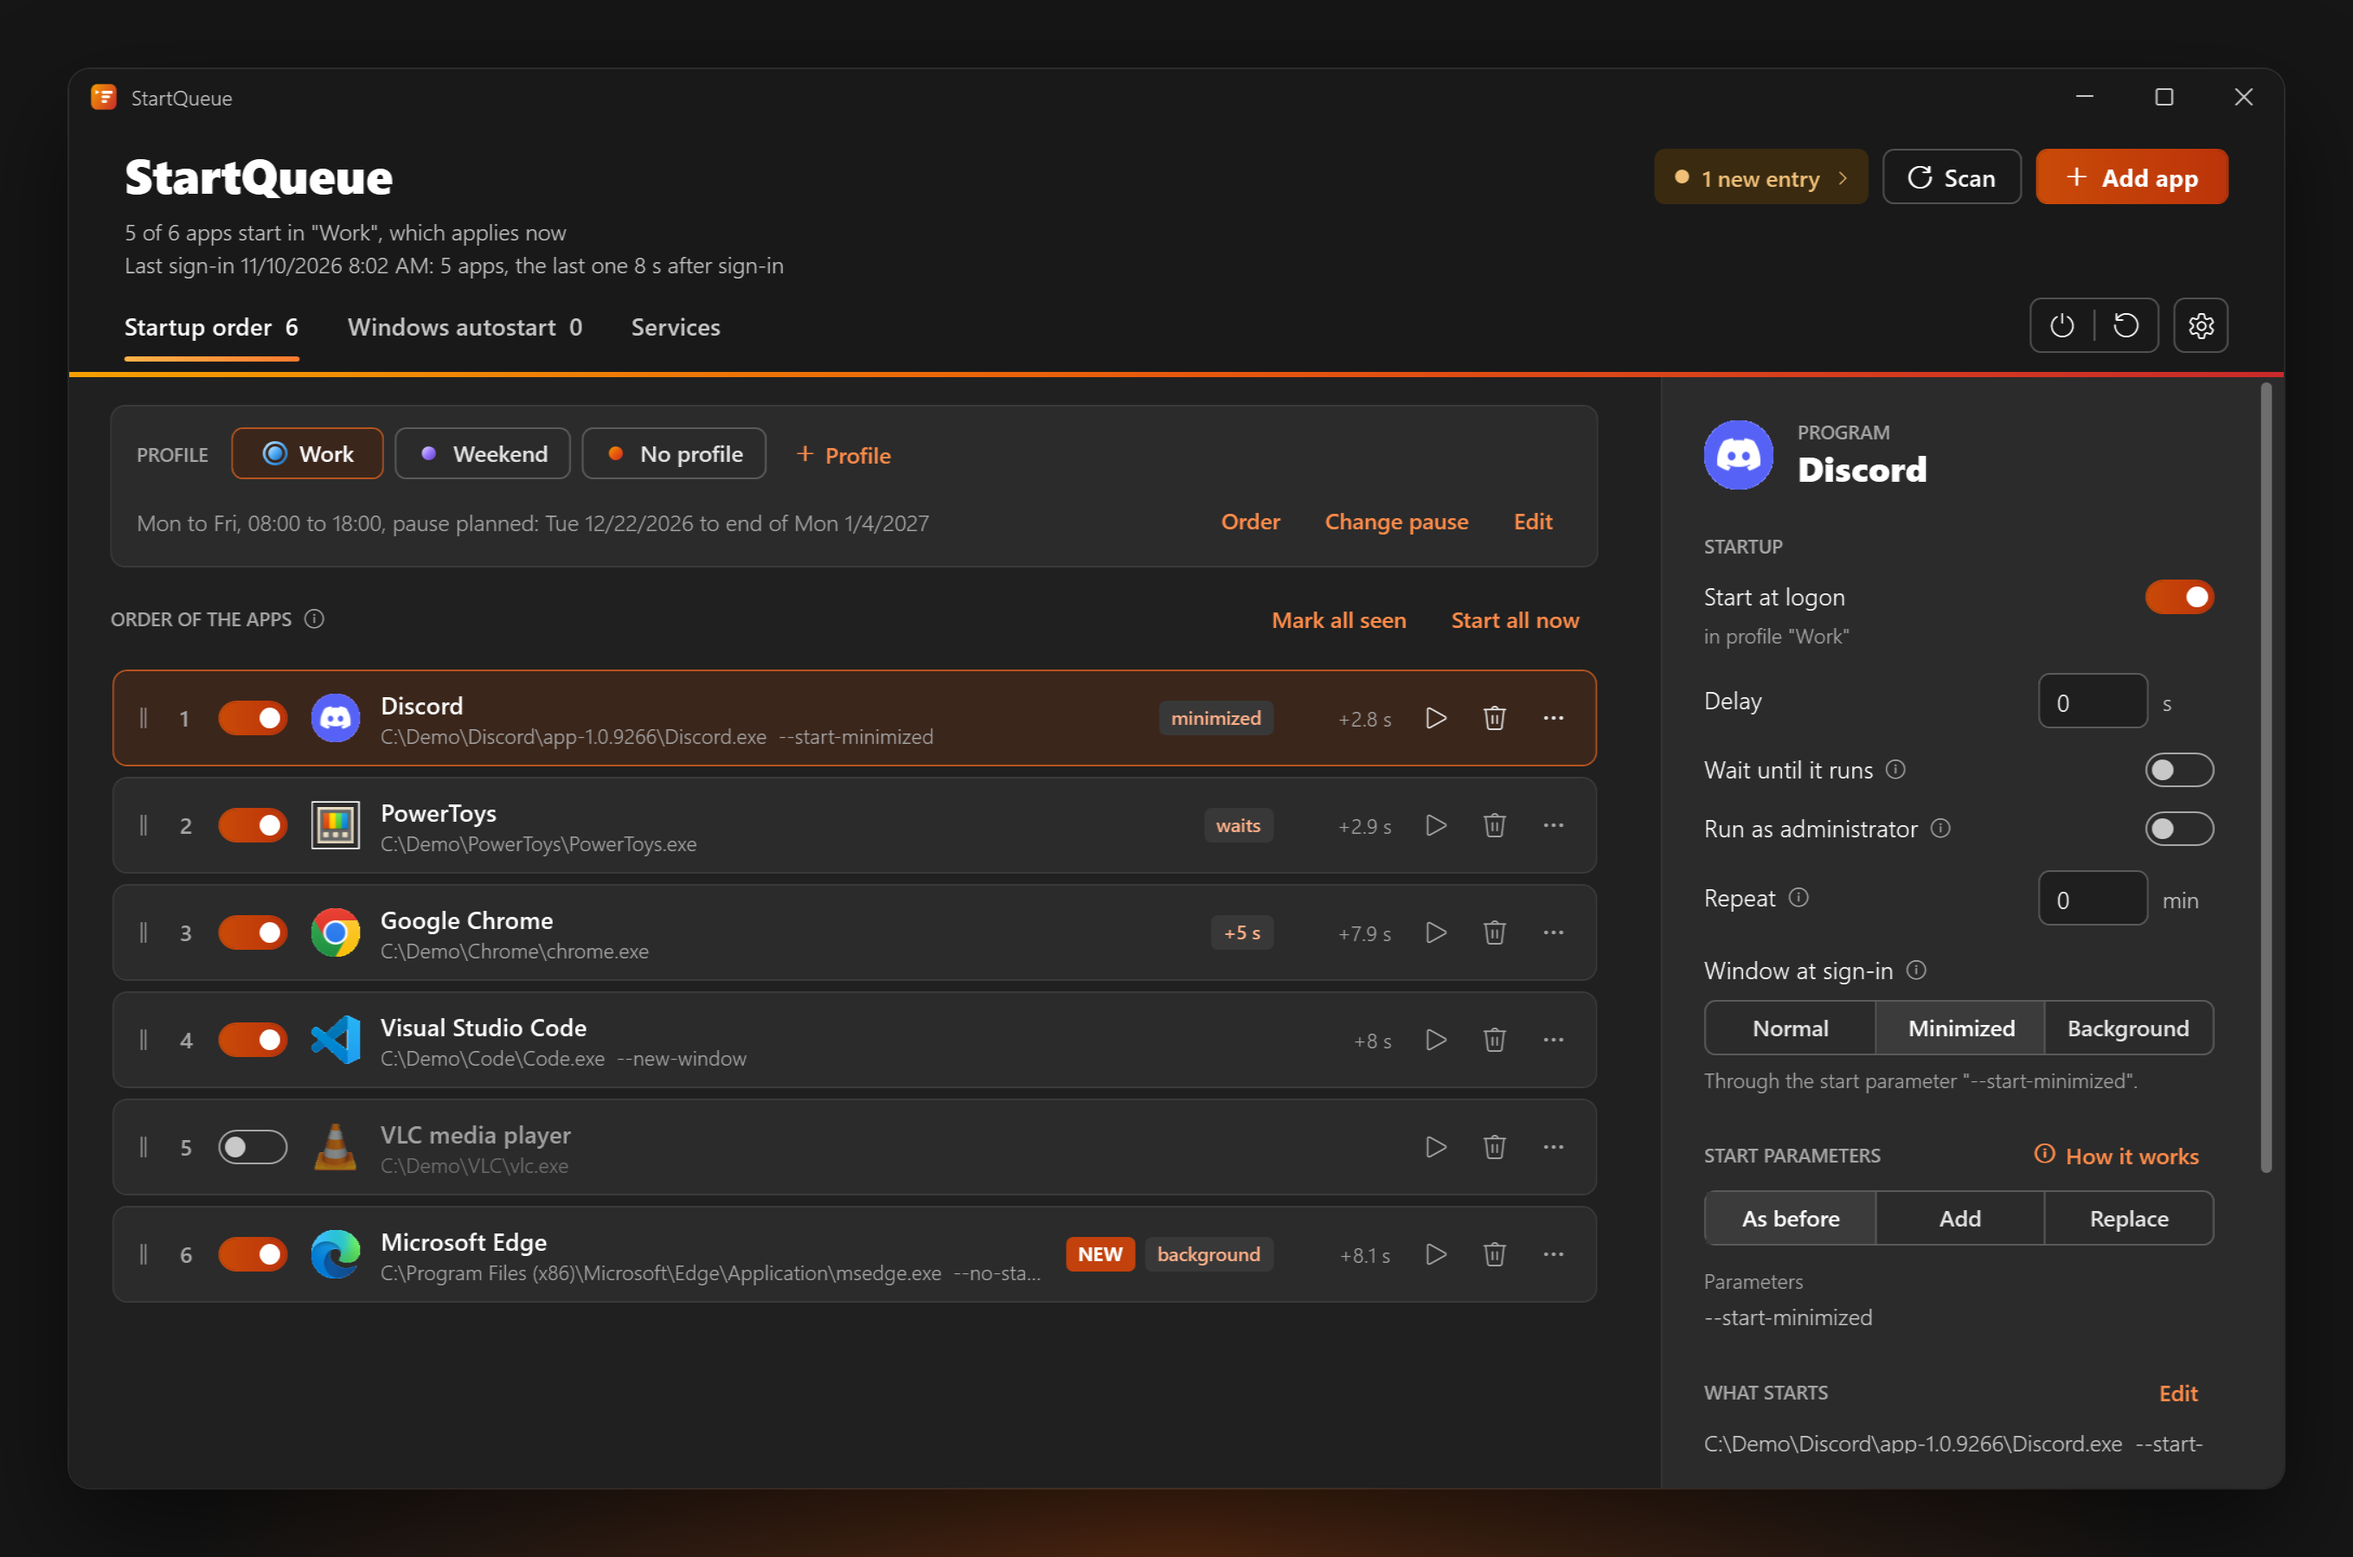
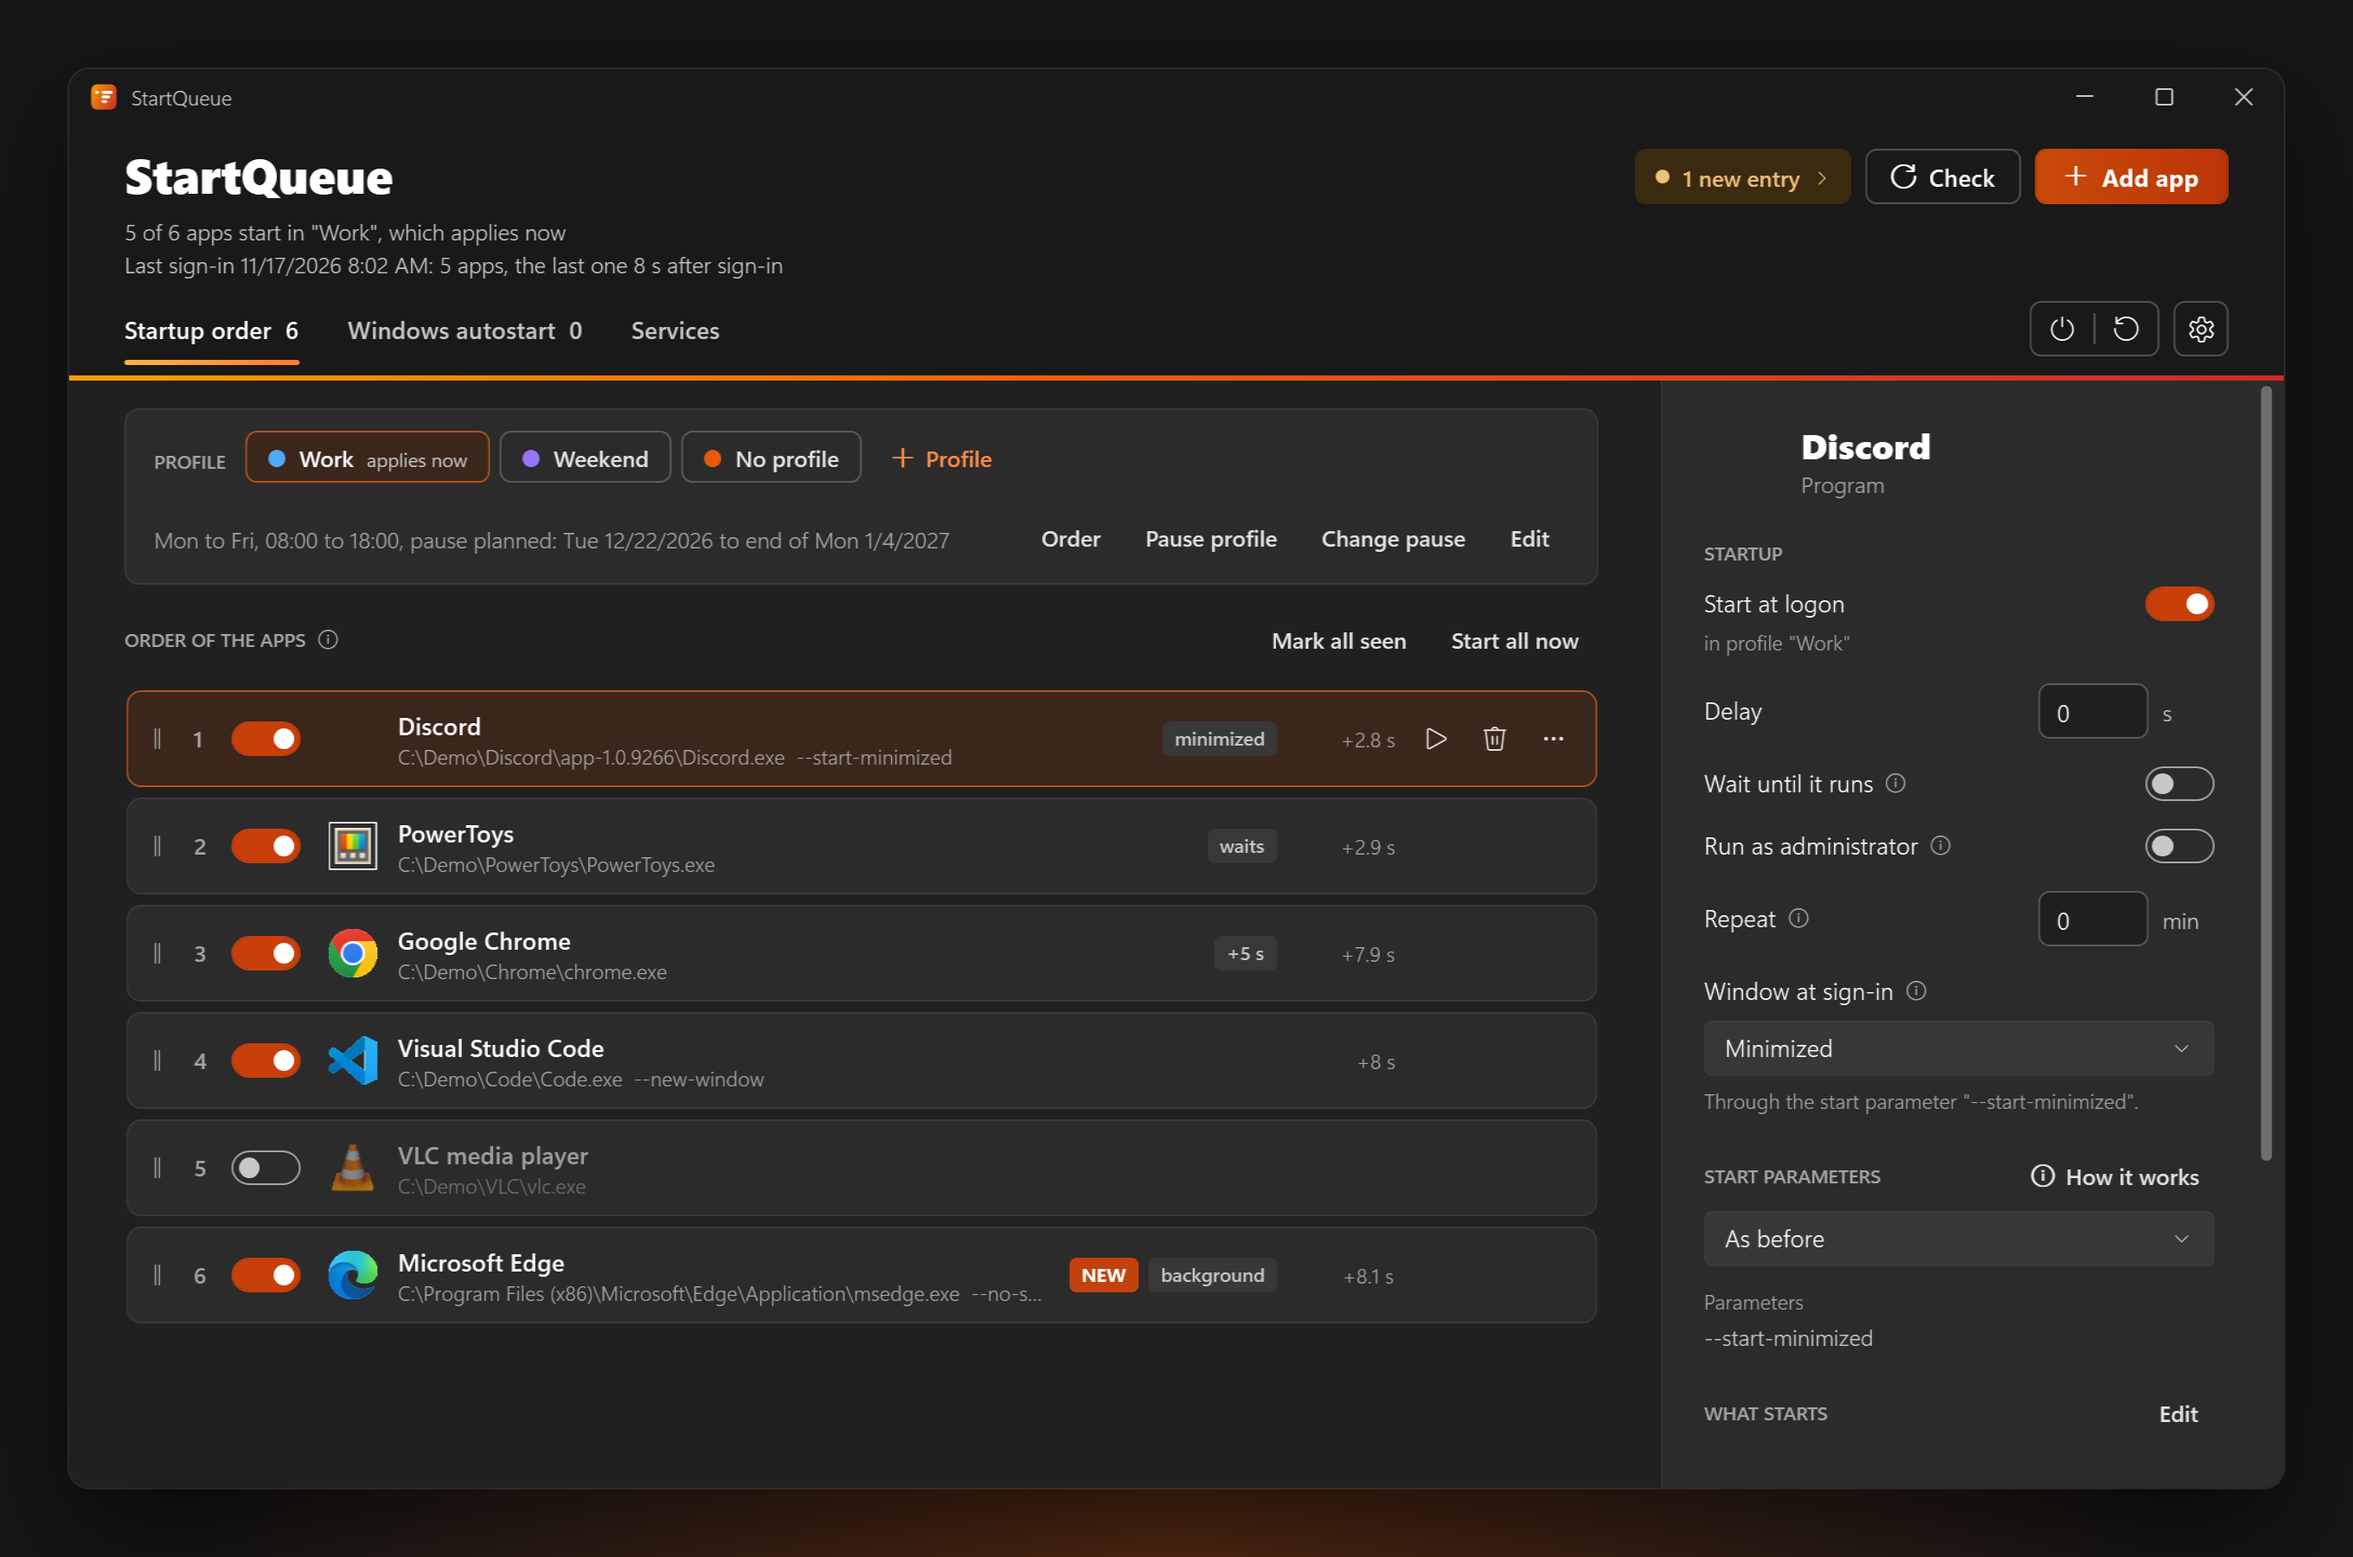
README pictures of 1.8.0: switched on, the real services of the sandbox instead of made-up companies; the film row points to the hands-on tutorial

diff --git a/README.md b/README.md
@@ -31,7 +31,7 @@ When you sign in, Windows launches every autostart app at the same time. They fi
 
 | Film | What it shows |
 | --- | --- |
-| **[Watch the tour](https://esteemworks.github.io/startqueue/)** (1:36, plays in your browser, sound on) | What Windows gives you for the autostart, then everything StartQueue adds: your order, delays, waiting for another app, quiet starts, profiles shared with the other EsteemWorks apps and prepared apps |
+| **[Watch the hands-on tutorial](https://esteemworks.github.io/startqueue/#tutorial)** (6:53, plays in your browser, with chapters and subtitles) | StartQueue 1.8.0 on a fresh Windows 11, from the setup to the last setting: the first start that changes nothing until you switch it on, your order, delays and waiting, quiet starts, profiles, Windows autostart and scheduled tasks, services and prepared apps |
 
 ## Highlights
 
@@ -78,15 +78,11 @@ Light and dark following Windows, StartQueue's ember colors, the Windows accent 
 
 <table>
   <tr>
-    <td width="50%"><img src="docs/images/profiles.png" alt="Order of the profiles: Work on weekdays with a planned holiday pause, Weekend all day on Saturday and Sunday"><br><sub><b>Profiles:</b> drag them into order, plan a pause like an out-of-office reply</sub></td>
-    <td width="50%"><img src="docs/images/services.png" alt="Services view sorted by startup type with a filter"><br><sub><b>Services:</b> startup type, start and stop, sorted and filtered</sub></td>
+    <td width="50%"><img src="docs/images/windows.png" alt="Windows autostart view: what Windows still starts by itself, and the scheduled tasks at sign-in"><br><sub><b>Windows autostart:</b> what Windows still starts by itself and the scheduled tasks at sign-in, taken over with one click</sub></td>
+    <td width="50%"><img src="docs/images/services.png" alt="Services view: the services of apps, here the ones of Microsoft Edge, with their startup type"><br><sub><b>Services:</b> startup type, start and stop, sorted and filtered</sub></td>
   </tr>
   <tr>
-    <td width="50%"><img src="docs/images/windows.png" alt="Windows autostart view: what Windows still starts by itself"><br><sub><b>Windows autostart:</b> what Windows still starts by itself, taken over with one click</sub></td>
-    <td width="50%"><img src="docs/images/pause.png" alt="Pause dialog: pause a profile for a planned period with times"><br><sub><b>Pause:</b> from now, for a planned period, or until you resume</sub></td>
-  </tr>
-  <tr>
-    <td width="50%"><img src="docs/images/profile-edit.png" alt="Profile dialog with color, weekdays and hours"><br><sub><b>Profile:</b> 16 colors, weekdays, hours or all day</sub></td>
+    <td width="50%"><img src="docs/images/profile-edit.png" alt="Profile editor with color, weekdays and hours"><br><sub><b>Profile:</b> 16 colors, weekdays, hours or all day</sub></td>
     <td width="50%"><img src="docs/images/settings.png" alt="Settings: general, startup at sign-in, new autostart entries"><br><sub><b>Settings:</b> color mode, accent color and language, the startup at sign-in, how new entries are handled</sub></td>
   </tr>
   <tr>
